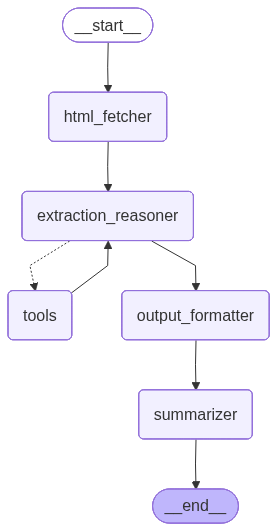
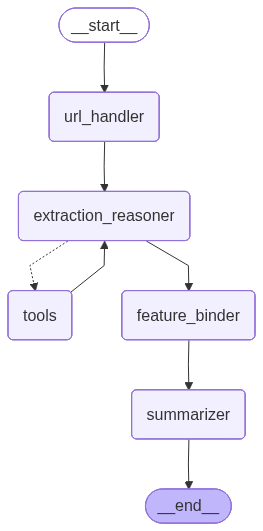
changed to appropriate  nodes names

diff --git a/langscrape/agent/graph.py b/langscrape/agent/graph.py
@@ -2,31 +2,30 @@ from .state import AgentState
 from ..nodes.extraction_reasoner import extraction_reasoner
 from langgraph.graph import StateGraph, START, END
 from langgraph.prebuilt import ToolNode, tools_condition
-from ..nodes.html_fetcher import html_fetcher
-from ..nodes.output_formatter import output_formatter
+from ..nodes.url_handler import url_handler
+from ..nodes.feature_binder import feature_binder
 from ..nodes.summarizer_prompt_builder import summarizer
 
 
 def get_graph(tools):
     graph = StateGraph(AgentState)
 
-    graph.add_node("html_fetcher", html_fetcher)
+    graph.add_node("url_handler", url_handler)
     graph.add_node("extraction_reasoner", extraction_reasoner)
     graph.add_node("tools", ToolNode(tools))
-    graph.add_node("output_formatter", output_formatter)
+    graph.add_node("feature_binder", feature_binder)
     graph.add_node("summarizer", summarizer)
 
-    graph.add_edge(START, "html_fetcher")
-    graph.add_edge('html_fetcher', 'extraction_reasoner')
+    graph.add_edge(START, "url_handler")
+    graph.add_edge('url_handler', 'extraction_reasoner')
     graph.add_conditional_edges(
         "extraction_reasoner",
         tools_condition,
-        {"tools": "tools", "__end__": "output_formatter"}
+        {"tools": "tools", "__end__": "feature_binder"}
         )
     graph.add_edge("tools", "extraction_reasoner")
-    graph.add_edge("extraction_reasoner", 'output_formatter')
-    graph.add_edge("extraction_reasoner", 'output_formatter')
-    graph.add_edge('output_formatter', 'summarizer')
+    graph.add_edge("extraction_reasoner", 'feature_binder')
+    graph.add_edge('feature_binder', 'summarizer')
     graph.add_edge('summarizer', END)
     
     graph = graph.compile()

diff --git a/langscrape/utils.py b/langscrape/utils.py
@@ -2,7 +2,6 @@ import json
 import os
 from pathlib import Path
 from typing import Any, Dict
-
 import yaml
 from langchain_deepseek import ChatDeepSeek
 from langchain_core.messages import SystemMessage
@@ -74,7 +73,6 @@ def _format_xpath_snapshot(global_state: Dict[str, Dict[str, Any]]) -> str:
         if isinstance(entry, dict) and entry.get("strategy") == "xpath_extractor":
             snapshot[field] = entry.get("xpath")
     return json.dumps(snapshot, ensure_ascii=False, indent=2)
-
 
 def get_system_prompt(state, formatted_extracts):
     return SystemMessage(

diff --git a/langscrape/nodes/extraction_reasoner.py b/langscrape/nodes/extraction_reasoner.py
@@ -8,7 +8,7 @@ def extraction_reasoner(state: AgentState) -> AgentState:
     formatted_extracts = get_formatted_extracts(current_extracts)
     system_prompt = get_system_prompt(state, formatted_extracts)
     print("\n=== 🧠 SYSTEM PROMPT (ITERATION) ===\n")
-    print(system_prompt.content)
+    print(system_prompt.content[:1000])
     print("\n=== END OF PROMPT ===\n")
     response = state['llm_with_tools'].invoke([system_prompt] + state["messages"])
     print("DEBUG tool_calls:", getattr(response, "tool_calls", None))

diff --git a/langscrape/nodes/summarizer_prompt_builder.py b/langscrape/nodes/summarizer_prompt_builder.py
@@ -552,7 +552,8 @@ def get_prompt(state: AgentState):
         "language": "The primary language of the content",
         "platform": "The website or platform where content is published",
         "author": "The content author or organization",
-        "tags": ["relevant", "topic", "tags"]
+        "tags": ["relevant", "topic", "tags"],
+        "figures": "key inviduals. mentioned"
     }}
     - All string values (including "summary" and "tags") **must be in English**.
     

diff --git a/langscrape/nodes/feature_binder.py b/langscrape/nodes/feature_binder.py
@@ -4,6 +4,6 @@ from ..html.xpath_extractor import extract_by_xpath_map_from_html
 
 config = load_config()
 
-def output_formatter(state: AgentState) -> AgentState:
+def feature_binder(state: AgentState) -> AgentState:
     state['result'] = extract_by_xpath_map_from_html(state['cleaned_html_content'], state['global_state'])
     return state

diff --git a/langscrape/nodes/url_handler.py b/langscrape/nodes/url_handler.py
@@ -10,7 +10,7 @@ async def fetch_url(url):
     result = await fetch_html_patchright(url)
     return result
 
-def html_fetcher(state: AgentState) -> AgentState:
+def url_handler(state: AgentState) -> AgentState:
     url = state['url']
     html_content = asyncio.run(fetch_url(url))
     print("len before cleaning:", len(html_content))
